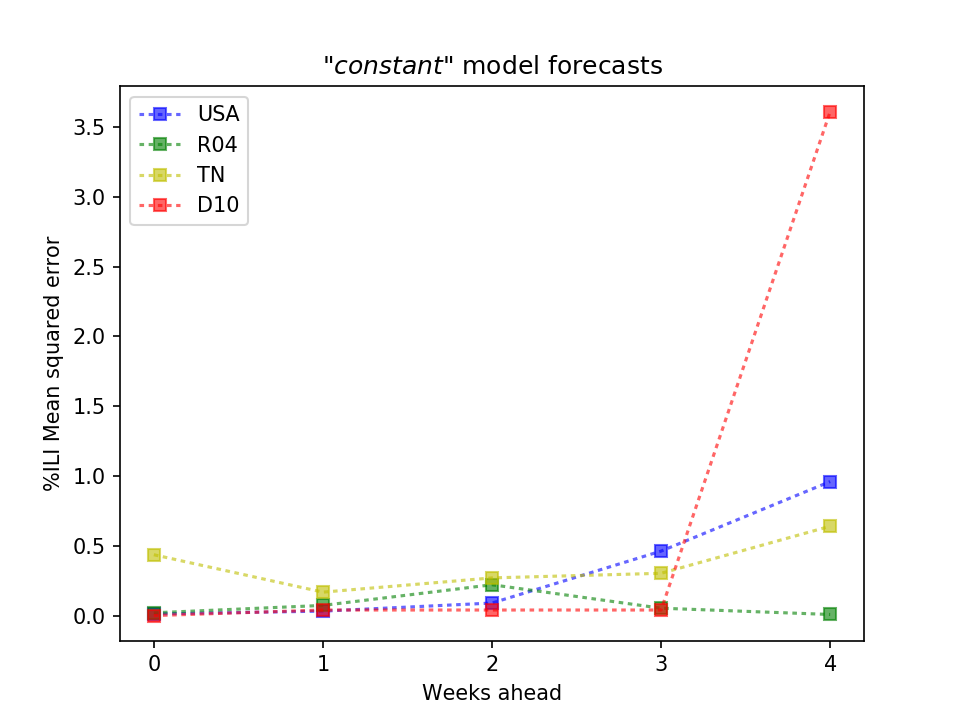
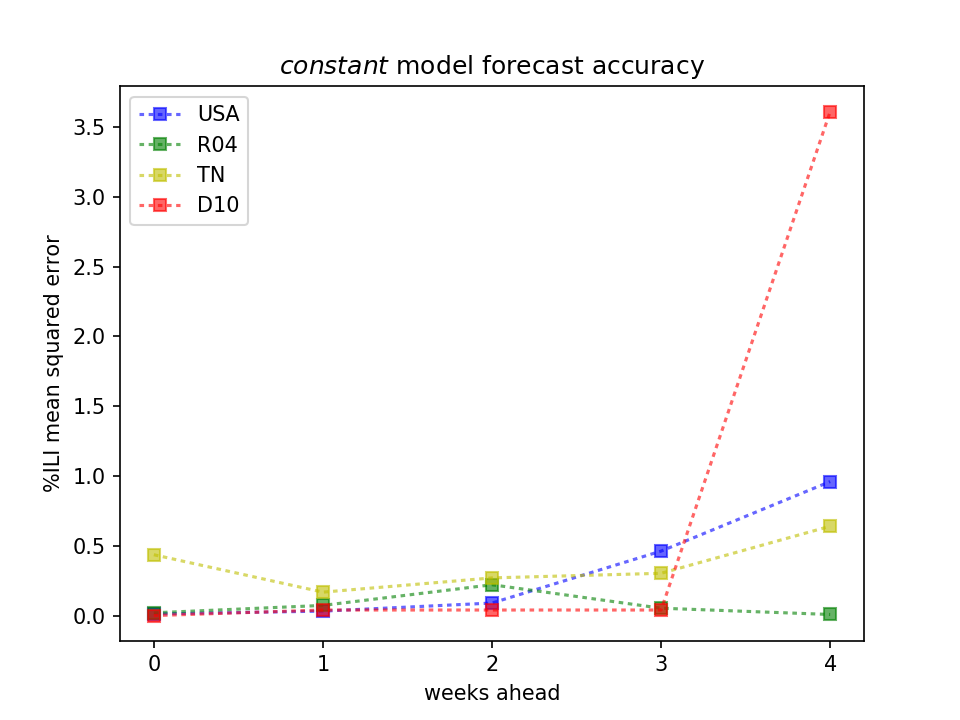
improve accuracy plot text

diff --git a/Evaluator/eval2plot-pops.py b/Evaluator/eval2plot-pops.py
@@ -14,8 +14,9 @@ pop_cs = [pc for pc in [
             ] if pc[0] in data[0]]
 name = argv[1].split('/')[-1].split('.')[0]
 
-plt.title('Mean squared error of forecast in population {}'.format(name))
-plt.xlabel('Weeks ahead')
+plt.title('forecast accuracy in population {}'.format(name))
+plt.xlabel('weeks ahead')
+plt.ylabel('%ILI mean squared error')
 plt.xticks(range(len(data) + 1))
 for pop, c in pop_cs:
     plt.plot([d[pop] if float(d[pop]) < 5 else None for d in data], ':s', label=pop, c=c)

diff --git a/Evaluator/eval2plot.py b/Evaluator/eval2plot.py
@@ -11,9 +11,9 @@ pcs = [k for k in [
        ] if k[0] in data[0]]
 name = argv[1].split('/')[-1].split('.')[0]
 
-plt.title('"${}$" model forecasts'.format(name))
-plt.xlabel('Weeks ahead')
-plt.ylabel('%ILI Mean squared error')
+plt.title('${}$ model forecast accuracy'.format(name))
+plt.xlabel('weeks ahead')
+plt.ylabel('%ILI mean squared error')
 plt.xticks(range(len(data) + 1))
 for (p, c) in pcs:
     plt.plot([d[p] for d in data], ':s', label=p, c=c, alpha=0.6)
